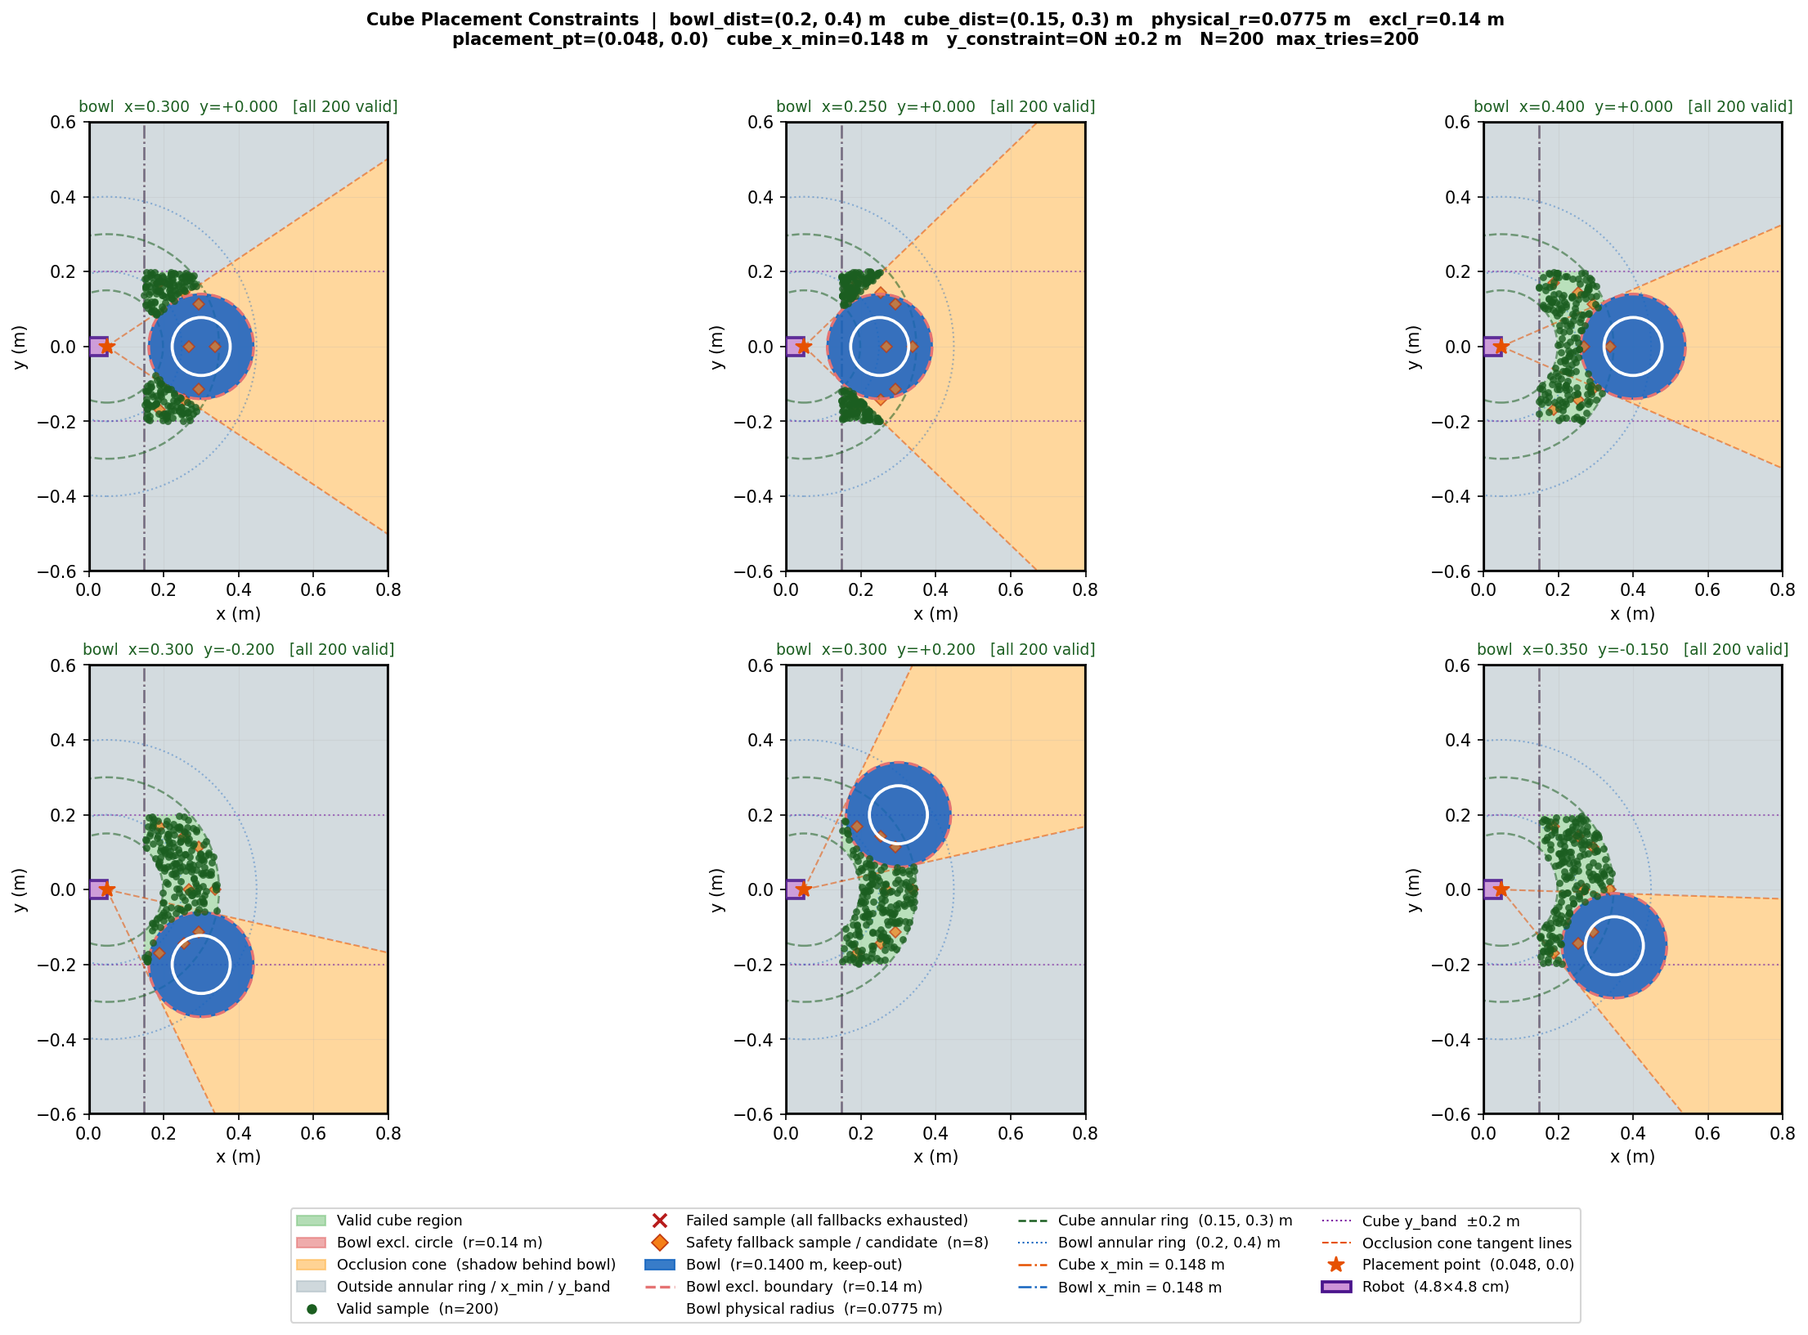
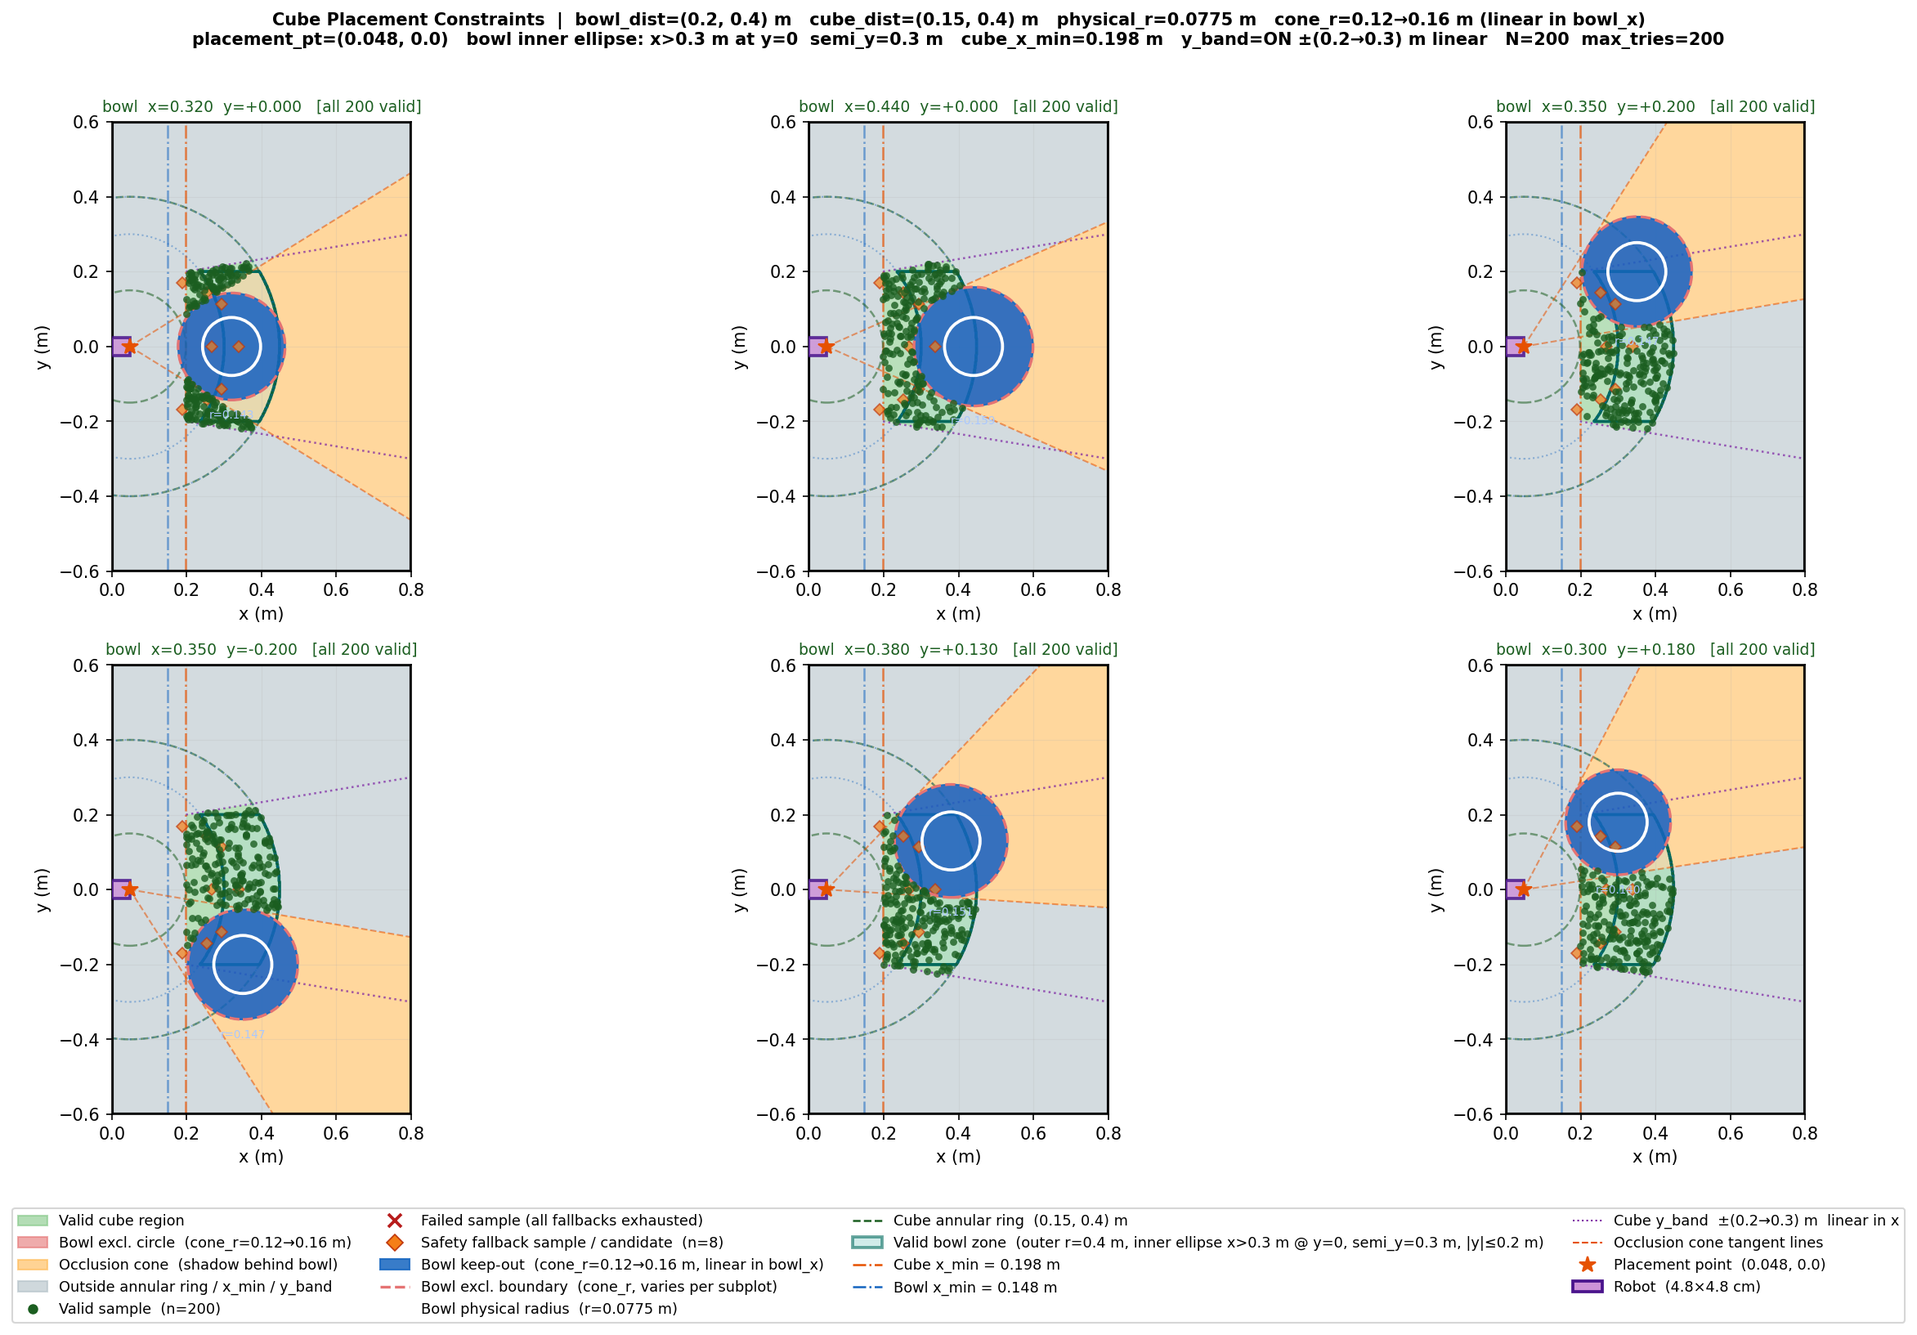
update placements -> for new init position

diff --git a/isaac_so_arm101/debug/placement_constraints.py b/isaac_so_arm101/debug/placement_constraints.py
@@ -38,18 +38,37 @@ PLACEMENT_POINT = (0.048, 0.0)
 
 # ── Bowl ──────────────────────────────────────────────────────────────────────
 BOWL_PHYSICAL_RADIUS = 0.0775  # real physical bowl radius (m)
-BOWL_RADIUS       = 0.14     # keep-out + cone half-width (m) — wider than physical to account for 3D camera perspective
+CONE_RADIUS_MIN   = 0.12     # minimum cone half-width (diameter 0.24 m) — safety margin even at closest bowl position
+BOWL_RADIUS       = 0.16     # maximum cone half-width (m) — at furthest bowl position, full safety margin
 BOWL_DIST_RANGE   = (0.20, 0.40)   # annular ring radii from placement point (m)
 BOWL_X_MIN        = 0.148    # absolute world-x lower bound (= placement_pt_x + 0.10)
 BOWL_Y_CONSTRAINT = True           # optional: |bowl_y| ≤ BOWL_Y_MAX
 BOWL_Y_MAX        = 0.20           # (m)
 
+# Inner boundary of bowl ring is an ELLIPSE (not a circle) to prevent the bowl
+# from being placed right in front of the robot.
+#   At y=0 (directly ahead):  bowl world-x must be > BOWL_INNER_X_MIN
+#   As |y| grows the x-constraint relaxes (ellipse shape).
+# Ellipse centred at placement point:
+#   semi-axis x = BOWL_INNER_X_MIN - px   (0.30 - 0.048 = 0.252 m)
+#   semi-axis y = BOWL_INNER_SEMI_Y       (0.30 m — at x=placement_pt, bowl must be ≥ 0.30 m lateral)
+# Validity: ((bowl_x - px) / (BOWL_INNER_X_MIN - px))^2 + ((bowl_y - py) / BOWL_INNER_SEMI_Y)^2 >= 1
+BOWL_INNER_X_MIN  = 0.30    # (m)  minimum bowl world-x when bowl_y = 0
+BOWL_INNER_SEMI_Y = 0.30    # (m)  lateral semi-axis of inner ellipse (relaxation in y)
+
 # ── Cube ──────────────────────────────────────────────────────────────────────
 CUBE_HALF_SIZE    = 0.01     # half side-length (m)  [2 cm cube]
-CUBE_DIST_RANGE   = (0.15, 0.30)   # annular ring radii from placement point (m)
-CUBE_X_MIN        = 0.148    # absolute world-x lower bound (= placement_pt_x + 0.10)
-CUBE_Y_CONSTRAINT = True           # optional: |cube_y| ≤ CUBE_Y_MAX
-CUBE_Y_MAX        = 0.20           # (m)
+CUBE_DIST_RANGE   = (0.15, 0.40)   # annular ring radii from placement point (m)
+CUBE_X_MIN        = 0.198    # absolute world-x lower bound (= placement_pt_x + 0.10)
+CUBE_Y_CONSTRAINT = True           # optional: linear |cube_y| ≤ y_max(x)
+
+# y-band grows linearly with x: tight near the robot, wider at the far table edge.
+#   |y| ≤  Y_MAX_LOW   at  x = CUBE_X_MIN   (close to robot)
+#   |y| ≤  Y_MAX_HIGH  at  x = TABLE_X[1]   (far table edge)
+# Rationale: camera FOV footprint on the table widens with distance, so positions
+# farther away are more likely to be visible even when displaced laterally.
+Y_MAX_LOW  = 0.20   # (m)  y limit at CUBE_X_MIN
+Y_MAX_HIGH = 0.30   # (m)  y limit at the far table edge  (TABLE_X[1])
 
 # ── Rejection sampling ────────────────────────────────────────────────────────
 MAX_PLACEMENT_TRIES  = 200
@@ -59,7 +78,7 @@ RANDOM_SEED          = 42
 
 # ── Safety positions ──────────────────────────────────────────────────────────
 # Tried in order once SAFE_FALLBACK_AFTER random attempts are exhausted.
-# Must each satisfy: dist ∈ CUBE_DIST_RANGE, x ≥ CUBE_X_MIN, |y| ≤ CUBE_Y_MAX.
+# Must each satisfy: dist ∈ CUBE_DIST_RANGE, x ≥ CUBE_X_MIN, |y| ≤ y_max(x).
 # They are NOT pre-checked against bowl constraints (that varies per episode);
 # the first one that passes check_validity() for the current bowl is used.
 # Defined as (x, y) world coordinates — edit to match your workspace.
@@ -79,14 +98,20 @@ SAFETY_POSITIONS = [
 # placement rectangle: x ∈ [0.25, 0.40], y ∈ [-0.20, +0.20]
 # (bowl init_state x=0.30 + offset (-0.05, +0.10); y=0.0 + offset (-0.20, +0.20))
 BOWL_POSITIONS = [
-    (0.30,  0.00),   # centre of range (default position)
-    (0.25,  0.00),   # near centre     (x minimum)
-    (0.40,  0.00),   # far centre      (x maximum)
-    (0.30, -0.20),   # mid x, far -y boundary
-    (0.30, +0.20),   # mid x, far +y boundary
-    (0.35, -0.15),   # off-centre: far x, moderate -y
+    (0.32,  0.00),   # close x, on axis       — near ellipse boundary at y=0
+    (0.44,  0.00),   # far x, on axis          — near outer ring boundary at y=0
+    (0.35, +0.20),   # mid x, max +y           — upper y limit
+    (0.35, -0.20),   # mid x, max -y           — lower y limit (symmetric)
+    (0.38, +0.13),   # far-ish x, moderate +y  — interior of valid zone
+    (0.30, +0.18),   # near x, large +y        — corner of ellipse + y-band
 ]
 _px, _py = float(PLACEMENT_POINT[0]), float(PLACEMENT_POINT[1])
+_table_edge_x = float(TABLE_X[1])
+# Max reachable bowl x along the x-axis (placement_point + outer ring radius).
+# Used as the upper anchor for the cone-radius interpolation.
+_bowl_x_max = _px + BOWL_DIST_RANGE[1]
+# x semi-axis of the elliptical inner bowl boundary (distance from placement point).
+_bowl_inner_semi_x = BOWL_INNER_X_MIN - _px   # = 0.30 - 0.048 = 0.252 m
 
 # ══ GRID ══════════════════════════════════════════════════════════════════════
 RES = 600
@@ -102,19 +127,45 @@ _on_table = (
 
 # ══ CONSTRAINT LOGIC ══════════════════════════════════════════════════════════
 
+def _bowl_inner_valid(bowl_x: float, bowl_y: float) -> bool:
+    """True when the bowl centre is OUTSIDE the elliptical inner exclusion zone.
+
+    Ellipse centred at placement point:
+        semi-axis x = _bowl_inner_semi_x = BOWL_INNER_X_MIN - px  (0.252 m)
+            → at y=0, bowl world-x must exceed BOWL_INNER_X_MIN = 0.30 m
+        semi-axis y = BOWL_INNER_SEMI_Y  (0.30 m)
+            → relaxation: as |y| grows, required x decreases
+    """
+    dx = bowl_x - _px
+    dy = bowl_y - _py
+    return (dx / _bowl_inner_semi_x) ** 2 + (dy / BOWL_INNER_SEMI_Y) ** 2 >= 1.0
+
+
+def _bowl_cone_radius(bowl_x: float) -> float:
+    """Effective occlusion-cone half-width, linear in bowl x.
+
+    CONE_RADIUS_MIN at bowl_x = BOWL_X_MIN (close bowl, diameter 0.20 m minimum safety).
+    BOWL_RADIUS at bowl_x = _bowl_x_max (far bowl, full safety margin).
+    """
+    t = (bowl_x - BOWL_X_MIN) / (_bowl_x_max - BOWL_X_MIN)
+    t = max(0.0, min(1.0, t))
+    return CONE_RADIUS_MIN + (BOWL_RADIUS - CONE_RADIUS_MIN) * t
+
+
 def _in_occlusion_cone(
     cx: torch.Tensor,
     cy: torch.Tensor,
     bowl_x: float,
     bowl_y: float,
+    cone_radius: float,
 ) -> torch.Tensor:
     """True where the cube position is occluded behind the bowl from the placement
     point.
 
     Exact 2-D line-of-sight check: the cube at C is occluded when the ray from
-    placement point P through C passes through the bowl disk of radius BOWL_RADIUS.
+    placement point P through C passes through the bowl disk of radius cone_radius.
     Three conditions must all hold:
-      1. The perpendicular distance from bowl centre B to the ray P→C < BOWL_RADIUS.
+      1. The perpendicular distance from bowl centre B to the ray P→C < cone_radius.
       2. The scalar projection of P→B onto the unit direction P→C is positive
          (bowl is in front of P, not behind).
       3. That projection is less than |P→C| (bowl is closer to P than cube is).
@@ -137,7 +188,13 @@ def _in_occlusion_cone(
     # Perpendicular distance from B to the ray P→C  (2-D cross-product magnitude)
     perp = torch.abs(vb_x * vc_hat_y - vb_y * vc_hat_x)
 
-    return (perp < BOWL_RADIUS) & (proj > 0.0) & (proj < d_c)
+    return (perp < cone_radius) & (proj > 0.0) & (proj < d_c)
+
+
+def _cube_y_max_at(cx: torch.Tensor) -> torch.Tensor:
+    """Linear y limit: Y_MAX_LOW at CUBE_X_MIN, Y_MAX_HIGH at the far table edge."""
+    t = ((cx - CUBE_X_MIN) / (_table_edge_x - CUBE_X_MIN)).clamp(0.0, 1.0)
+    return Y_MAX_LOW + (Y_MAX_HIGH - Y_MAX_LOW) * t
 
 
 def _cube_constraints(
@@ -153,17 +210,38 @@ def _cube_constraints(
         x_min   — cube_x ≥ CUBE_X_MIN
         box     — outside bowl exclusion circle
         cone    — NOT in occlusion cone
-        y_band  — |cube_y| ≤ CUBE_Y_MAX  (always True when CUBE_Y_CONSTRAINT=False)
+        y_band  — |cube_y| ≤ y_max(x)  (always True when CUBE_Y_CONSTRAINT=False)
     """
+    cone_r = _bowl_cone_radius(bowl_x)
     d = torch.sqrt((cx - _px)**2 + (cy - _py)**2)
     return {
         "radius": (d >= CUBE_DIST_RANGE[0]) & (d <= CUBE_DIST_RANGE[1]),
         "x_min":  cx >= CUBE_X_MIN,
-        "box":    torch.sqrt((cx - bowl_x)**2 + (cy - bowl_y)**2) > BOWL_RADIUS,
-        "cone":   ~_in_occlusion_cone(cx, cy, bowl_x, bowl_y),
-        "y_band": (torch.abs(cy) <= CUBE_Y_MAX) if CUBE_Y_CONSTRAINT
+        "box":    torch.sqrt((cx - bowl_x)**2 + (cy - bowl_y)**2) > cone_r,
+        "cone":   ~_in_occlusion_cone(cx, cy, bowl_x, bowl_y, cone_r),
+        "y_band": (torch.abs(cy) <= _cube_y_max_at(cx)) if CUBE_Y_CONSTRAINT
                   else torch.ones_like(cx, dtype=torch.bool),
     }
+
+
+def bowl_valid_grid() -> torch.Tensor:
+    """(RES, RES) bool: where the bowl centre can legally be placed.
+
+    Constraints (independent of cube position):
+        outer ring  — distance from placement point ≤ BOWL_DIST_RANGE[1]
+        inner ellipse — outside the elliptical exclusion zone
+        x_min       — world-x ≥ BOWL_X_MIN
+        y_band      — |world-y| ≤ BOWL_Y_MAX  (if BOWL_Y_CONSTRAINT)
+    """
+    dx = _XX_t - _px
+    dy = _YY_t - _py
+    r  = torch.sqrt(dx**2 + dy**2)
+    in_outer = r <= BOWL_DIST_RANGE[1]
+    outside_ellipse = (dx / _bowl_inner_semi_x) ** 2 + (dy / BOWL_INNER_SEMI_Y) ** 2 >= 1.0
+    x_ok = _XX_t >= BOWL_X_MIN
+    y_ok = (torch.abs(_YY_t) <= BOWL_Y_MAX) if BOWL_Y_CONSTRAINT \
+           else torch.ones_like(dx, dtype=torch.bool)
+    return _on_table & in_outer & outside_ellipse & x_ok & y_ok
 
 
 def check_validity_grid(
@@ -254,15 +332,17 @@ fig, axes = plt.subplots(2, 3, figsize=(18, 11))
 fig.suptitle(
     f"Cube Placement Constraints  |  "
     f"bowl_dist={BOWL_DIST_RANGE} m   cube_dist={CUBE_DIST_RANGE} m   "
-    f"physical_r={BOWL_PHYSICAL_RADIUS} m   excl_r={BOWL_RADIUS} m\n"
-    f"placement_pt={PLACEMENT_POINT}   cube_x_min={CUBE_X_MIN} m   "
-    f"y_constraint={'ON' if CUBE_Y_CONSTRAINT else 'OFF'} ±{CUBE_Y_MAX} m   "
+    f"physical_r={BOWL_PHYSICAL_RADIUS} m   cone_r={CONE_RADIUS_MIN}→{BOWL_RADIUS} m (linear in bowl_x)\n"
+    f"placement_pt={PLACEMENT_POINT}   bowl inner ellipse: x>{BOWL_INNER_X_MIN} m at y=0  semi_y={BOWL_INNER_SEMI_Y} m   "
+    f"cube_x_min={CUBE_X_MIN} m   "
+    f"y_band={'ON' if CUBE_Y_CONSTRAINT else 'OFF'} ±({Y_MAX_LOW}→{Y_MAX_HIGH}) m linear   "
     f"N={N_SAMPLES}  max_tries={MAX_PLACEMENT_TRIES}",
     fontsize=10, fontweight="bold",
 )
 
 _xs_np = _xs.numpy()
 _ys_np = _ys.numpy()
+_bowl_valid_np = bowl_valid_grid().numpy().astype(float)   # precomputed once
 
 for ax, (bowl_x, bowl_y) in zip(axes.flat, BOWL_POSITIONS):
 
@@ -277,6 +357,12 @@ for ax, (bowl_x, bowl_y) in zip(axes.flat, BOWL_POSITIONS):
 
     ax.pcolormesh(_xs_np, _ys_np, region.numpy(),
                   cmap=CMAP, norm=NORM, shading="auto", rasterized=True, alpha=0.55)
+
+    # ── Bowl valid zone overlay ───────────────────────────────────────────────
+    ax.contourf(_xs_np, _ys_np, _bowl_valid_np,
+                levels=[0.5, 1.5], colors=["#b2dfdb"], alpha=0.30, zorder=1)
+    ax.contour(_xs_np, _ys_np, _bowl_valid_np,
+               levels=[0.5], colors=["#00695c"], linewidths=[1.8], zorder=3)
 
     # ── Sampled cube positions ────────────────────────────────────────────────
     xy, failed, used_safety = sample_cube_positions(bowl_x, bowl_y)
@@ -304,41 +390,59 @@ for ax, (bowl_x, bowl_y) in zip(axes.flat, BOWL_POSITIONS):
                 zorder=6, linestyle="None", alpha=0.70)
 
     # ── Bowl circle and exclusion box ─────────────────────────────────────────
-    ax.add_patch(plt.Circle((bowl_x, bowl_y), BOWL_RADIUS,
+    cone_r = _bowl_cone_radius(bowl_x)
+    ax.add_patch(plt.Circle((bowl_x, bowl_y), cone_r,
                              color="#1565c0", alpha=0.85, zorder=5))
-    ax.add_patch(plt.Circle((bowl_x, bowl_y), BOWL_RADIUS,
+    ax.add_patch(plt.Circle((bowl_x, bowl_y), cone_r,
                              fill=False, edgecolor="#e57373",
                              linestyle="--", linewidth=1.6, zorder=6))
     ax.add_patch(plt.Circle((bowl_x, bowl_y), BOWL_PHYSICAL_RADIUS,
                              fill=False, edgecolor="#ffffff",
                              linestyle="-", linewidth=1.8, zorder=7))
+    ax.text(bowl_x, bowl_y - cone_r - 0.025, f"r={cone_r:.3f}",
+            ha="center", va="top", fontsize=6.5, color="#aac8ff", zorder=8)
 
     # ── Annular rings ─────────────────────────────────────────────────────────
     for r in CUBE_DIST_RANGE:
         ax.add_patch(plt.Circle(PLACEMENT_POINT, r,
                                  fill=False, edgecolor="#1b5e20",
                                  linestyle="--", linewidth=1.2, alpha=0.55, zorder=4))
-    for r in BOWL_DIST_RANGE:
-        ax.add_patch(plt.Circle(PLACEMENT_POINT, r,
-                                 fill=False, edgecolor="#1565c0",
-                                 linestyle=":", linewidth=1.0, alpha=0.40, zorder=4))
+    # Outer bowl ring — circle
+    ax.add_patch(plt.Circle(PLACEMENT_POINT, BOWL_DIST_RANGE[1],
+                             fill=False, edgecolor="#1565c0",
+                             linestyle=":", linewidth=1.0, alpha=0.40, zorder=4))
+    # Inner bowl boundary — ELLIPSE (semi-x = _bowl_inner_semi_x, semi-y = BOWL_INNER_SEMI_Y)
+    ax.add_patch(mpatches.Ellipse(
+        PLACEMENT_POINT,
+        width=2 * _bowl_inner_semi_x,
+        height=2 * BOWL_INNER_SEMI_Y,
+        fill=False,
+        edgecolor="#1565c0",
+        linestyle=":",
+        linewidth=1.0,
+        alpha=0.40,
+        zorder=4,
+    ))
 
     # ── x_min boundaries ──────────────────────────────────────────────────────
     ax.axvline(x=CUBE_X_MIN, color="#e65100", linestyle="-.", linewidth=1.2, alpha=0.70)
     ax.axvline(x=BOWL_X_MIN, color="#1565c0", linestyle="-.", linewidth=1.2, alpha=0.55)
 
-    # ── y-band boundaries ─────────────────────────────────────────────────────
+    # ── y-band boundaries (linear: tight near robot, wide at far edge) ────────
     if CUBE_Y_CONSTRAINT:
+        import numpy as np
+        x_line = np.linspace(CUBE_X_MIN, _table_edge_x, 200)
+        y_bound = Y_MAX_LOW + (Y_MAX_HIGH - Y_MAX_LOW) * (x_line - CUBE_X_MIN) / (_table_edge_x - CUBE_X_MIN)
         for sign in (+1, -1):
-            ax.axhline(y=sign * CUBE_Y_MAX, color="#7b1fa2",
-                       linestyle=":", linewidth=1.0, alpha=0.60)
+            ax.plot(x_line, sign * y_bound, color="#7b1fa2",
+                    linestyle=":", linewidth=1.2, alpha=0.70)
 
     # ── Occlusion cone tangent lines from placement point ─────────────────────
     bvx = bowl_x - _px
     bvy = bowl_y - _py
     d_b = math.sqrt(bvx**2 + bvy**2)
-    if d_b > BOWL_RADIUS:
-        half_angle  = math.asin(BOWL_RADIUS / d_b)
+    if d_b > cone_r:
+        half_angle  = math.asin(cone_r / d_b)
         bowl_angle  = math.atan2(bvy, bvx)
         for sign in (+1, -1):
             tang = bowl_angle + sign * half_angle
@@ -394,7 +498,7 @@ legend_handles = [
     mpatches.Patch(color="#81c784", alpha=0.6,
                    label="Valid cube region"),
     mpatches.Patch(color="#e57373", alpha=0.6,
-                   label=f"Bowl excl. circle  (r={BOWL_RADIUS} m)"),
+                   label=f"Bowl excl. circle  (cone_r={CONE_RADIUS_MIN}→{BOWL_RADIUS} m)"),
     mpatches.Patch(color="#ffb74d", alpha=0.6,
                    label="Occlusion cone  (shadow behind bowl)"),
     mpatches.Patch(color="#b0bec5", alpha=0.6,
@@ -409,21 +513,23 @@ legend_handles = [
                markersize=7, markeredgecolor="#bf360c", markeredgewidth=0.8,
                label=f"Safety fallback sample / candidate  (n={len(SAFETY_POSITIONS)})"),
     mpatches.Patch(color="#1565c0", alpha=0.85,
-                   label=f"Bowl  (r={BOWL_RADIUS:.4f} m, keep-out)"),
+                   label=f"Bowl keep-out  (cone_r={CONE_RADIUS_MIN}→{BOWL_RADIUS} m, linear in bowl_x)"),
     plt.Line2D([0], [0], color="#e57373", linestyle="--", linewidth=1.6,
-               label=f"Bowl excl. boundary  (r={BOWL_RADIUS} m)"),
+               label=f"Bowl excl. boundary  (cone_r, varies per subplot)"),
     plt.Line2D([0], [0], color="#ffffff", linestyle="-", linewidth=1.8,
                label=f"Bowl physical radius  (r={BOWL_PHYSICAL_RADIUS} m)"),
     plt.Line2D([0], [0], color="#1b5e20", linestyle="--", linewidth=1.2,
                label=f"Cube annular ring  {CUBE_DIST_RANGE} m"),
-    plt.Line2D([0], [0], color="#1565c0", linestyle=":", linewidth=1.0,
-               label=f"Bowl annular ring  {BOWL_DIST_RANGE} m"),
+    mpatches.Patch(facecolor="#b2dfdb", edgecolor="#00695c", linewidth=1.8, alpha=0.6,
+                   label=f"Valid bowl zone  (outer r={BOWL_DIST_RANGE[1]} m, inner ellipse "
+                         f"x>{BOWL_INNER_X_MIN} m @ y=0, semi_y={BOWL_INNER_SEMI_Y} m, "
+                         f"|y|≤{BOWL_Y_MAX} m)"),
     plt.Line2D([0], [0], color="#e65100", linestyle="-.", linewidth=1.2,
                label=f"Cube x_min = {CUBE_X_MIN} m"),
     plt.Line2D([0], [0], color="#1565c0", linestyle="-.", linewidth=1.2,
                label=f"Bowl x_min = {BOWL_X_MIN} m"),
     plt.Line2D([0], [0], color="#7b1fa2", linestyle=":", linewidth=1.0,
-               label=f"Cube y_band  ±{CUBE_Y_MAX} m"
+               label=f"Cube y_band  ±({Y_MAX_LOW}→{Y_MAX_HIGH}) m  linear in x"
                      + ("" if CUBE_Y_CONSTRAINT else "  (OFF)")),
     plt.Line2D([0], [0], color="#e65100", linestyle="--", linewidth=1.0,
                label="Occlusion cone tangent lines"),
